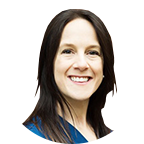
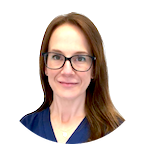
Gallery (#3)
* Add links container margin
* Update testimonials section
* Add gallery images
* Update profile photos
* Add gallery placeholder, gallery css, update bios
* Add gallery

diff --git a/index.html b/index.html
@@ -13,8 +13,7 @@
   <link rel="stylesheet" type="text/css" href="https://fonts.googleapis.com/css?family=Open+Sans|Raleway|Candal">
   <link href='https://fonts.googleapis.com/css?family=Allerta' rel='stylesheet'>
   <link rel="stylesheet" type="text/css" href="css/font-awesome.min.css">
-  <link rel="stylesheet" href="https://use.fontawesome.com/releases/v5.4.1/css/all.css" integrity="sha384-5sAR7xN1Nv6T6+dT2mhtzEpVJvfS3NScPQTrOxhwjIuvcA67KV2R5Jz6kr4abQsz"
-    crossorigin="anonymous">
+  <link rel="stylesheet" href="https://use.fontawesome.com/releases/v5.4.1/css/all.css" integrity="sha384-5sAR7xN1Nv6T6+dT2mhtzEpVJvfS3NScPQTrOxhwjIuvcA67KV2R5Jz6kr4abQsz" crossorigin="anonymous">
   <link rel="stylesheet" type="text/css" href="css/bootstrap.min.css">
   <link rel="stylesheet" type="text/css" href="css/style.css">
   <!-- =======================================================
@@ -46,8 +45,9 @@
                 <li class=""><a href="#about">About</a></li>
                 <li class=""><a href="#hours">Hours</a></li>
                 <li class=""><a href="#team">Team</a></li>
-                <li class=""><a href="#treatments">Treatments & Pricing</a></li>
-                <li class=""><a href="#testimonial">Testimonials</a></li>
+                <li class=""><a href="#treatments">Treatments & Prices</a></li>
+                <li class=""><a href="#gallery">Gallery</a></li>
+                <li class=""><a href="#reviews">Reviews</a></li>
                 <li class=""><a href="#contact">Contact</a></li>
               </ul>
             </div>
@@ -358,7 +358,9 @@
                       </div>
                       <div class="modal-body about-stephanie-modal">
                         <img src="img/blank.png" alt="Ms Stephanie Blain" class="modal-img">
-                        <p>NEEDS UPDATING</p>
+                        <p>Stephanie graduated from Newcastle University in 2011. After training she decided to move back to Yorkshire and joined the practice in 2015.</p>
+                        <p>In 2016 she decided to gain extra qualifications in Facial Aesthetics and since has expanded her knowledge and skills by attending courses on Harley Street. In her spare time shes plays netball twice a week and has a lovely Bedlington Terrier called Lenny that needs walking a lot!</p>
+                        <p>Stephanie works <u>Mondays</u>, <u>Tuesdays</u>, <u>Thursdays</u> and <u>Fridays</u>, but soon will be going on maternity leave. She will be coming back in 2020.</p>
                       </div>
                       <div class="modal-footer treatment-modal">
                         <button type="button" class="btn btn-secondary" data-dismiss="modal">Close</button>
@@ -452,7 +454,9 @@
                       </div>
                       <div class="modal-body about-harmandeep-modal">
                         <img src="img/harmandeep.png" alt="Ms Harmandeep Tatla" class="modal-img">
-                        <p>NEEDS UPDATING</p>
+                        <p>Harmandeep graduated from Cardiff University in the summer of 2018, and is the most recent member of SLDC where he is carrying out his dental foundation training year.</p>
+                        <p>He is specifically interested in treating anxious patients and changing their perceptions of dental treatment being painful. Further to this, Harmandeep enjoys treating children, carrying out aesthetic treatments such as white fillings and restoring smiles with crowns, bridges and dentures.</p>
+                        <p>Outside of work, Harmandeep enjoys travelling and socialising with friends and family.</p>
                       </div>
                       <div class="modal-footer treatment-modal">
                         <button type="button" class="btn btn-secondary" data-dismiss="modal">Close</button>
@@ -729,7 +733,9 @@
                       </div>
                       <div class="modal-body about-sammy-modal">
                         <img src="img/sammy.png" alt="Ms Sammy Lowe" class="modal-img">
-                        <p>NEEDS UPDATING</p>
+                        <p>Samantha joined the practice in 2011 as a trainee nurse and qualified in 2013.</p>
+                        <p>She has gained extra training, enabling her to nurse for treatment under sedation as well as training other trainee dental nurses and working alongside the foundation dentists.</p>
+                        <p>In her spare time, she enjoys travelling, cooking and socialising with friends and family. </p>
                       </div>
                       <div class="modal-footer treatment-modal">
                         <button type="button" class="btn btn-secondary" data-dismiss="modal">Close</button>
@@ -869,7 +875,7 @@
       </div>
     </div>
     <div class="col-md-12 back-top-top-container">
-      <div class="back-to-top text-center" id="back-to-top">
+      <div class="back-to-top text-center">
         <a href="" title="Back To Top"><i class="fa fa-angle-up"></i></a>
       </div>
     </div>
@@ -1076,8 +1082,81 @@
     </div>
   </section>
   <!--/ treatments & pricing-->
-  <!--testimonial-->
-  <section id="testimonial" class="section-padding">
+  <!-- gallery -->
+  <section id="gallery" class="section-padding">
+    <div class="container">
+      <div class="row">
+        <div class="col-md-12">
+          <h2 class="ser-title">Gallery</h2>
+          <hr class="botm-line">
+        </div>
+        <div class="col-md-12">
+          <!-- Container for the image gallery -->
+          <div class="gallery-container">
+            <!-- Full-width images with number text -->
+            <div class="mySlides">
+              <div class="numbertext">1 / 6</div>
+              <img src="img/gallery/front.jpg">
+            </div>
+            <div class="mySlides">
+              <div class="numbertext">2 / 6</div>
+              <img src="img/gallery/surgery2.jpg">
+            </div>
+            <div class="mySlides">
+              <div class="numbertext">3 / 6</div>
+              <img src="img/gallery/surgery3.jpg">
+            </div>
+            <div class="mySlides">
+              <div class="numbertext">4 / 6</div>
+              <img src="img/gallery/waiting-room-1.jpg">
+            </div>
+            <div class="mySlides">
+              <div class="numbertext">5 / 6</div>
+              <img src="img/gallery/waiting-room-2.jpg">
+            </div>
+            <div class="mySlides">
+              <div class="numbertext">6 / 6</div>
+              <img src="img/gallery/sterlisation-room.jpg">
+            </div>
+          
+            <!-- Next and previous buttons -->
+            <a class="prev" onclick="plusSlides(-1)">&#10094;</a>
+            <a class="next" onclick="plusSlides(1)">&#10095;</a>
+          
+            <!-- Image text -->
+            <div class="caption-container">
+              <p id="caption"></p>
+            </div>
+          
+            <!-- Thumbnail images -->
+            <div class="gallery-row">
+              <div class="gallery-column">
+                <img class="demo cursor" src="img/gallery/front.jpg" onclick="currentSlide(1)" alt="Our Practice">
+              </div>
+              <div class="gallery-column">
+                <img class="demo cursor" src="img/gallery/surgery2.jpg" onclick="currentSlide(2)" alt="Surgery 2">
+              </div>
+              <div class="gallery-column">
+                <img class="demo cursor" src="img/gallery/surgery3.jpg" onclick="currentSlide(3)" alt="Surgery 3">
+              </div>
+              <div class="gallery-column">
+                <img class="demo cursor" src="img/gallery/waiting-room-1.jpg" onclick="currentSlide(4)" alt="Our Waiting Room">
+              </div>
+              <div class="gallery-column">
+                <img class="demo cursor" src="img/gallery/waiting-room-2.jpg" onclick="currentSlide(5)" alt="Our Waiting Room">
+              </div>
+              <div class="gallery-column">
+                <img class="demo cursor" src="img/gallery/sterlisation-room.jpg" onclick="currentSlide(6)" alt="Our Sterilisation Room">
+              </div>
+            </div>
+          </div>
+        </div>
+      </div>
+    </div>
+  </section>
+  <!--/ gallery -->
+  <!--reviews-->
+  <section id="reviews" class="section-padding">
     <div class="container">
       <div class="row">
         <div class="col-md-12">
@@ -1123,13 +1202,8 @@
         </div>
       </div>
     </div>
-    <div class="col-md-12 back-top-top-container">
-      <div class="back-to-top text-center" id="back-to-top">
-        <a href="#" title="Back To Top"><i class="fa fa-angle-up"></i></a>
-      </div>
-    </div>
   </section>
-  <!--/ testimonial-->
+  <!--/ reviews-->
   <!--contact-->
   <section id="contact" class="section-padding">
     <div class="container">
@@ -1152,7 +1226,7 @@
     </div>
     <div class="col-md-12 back-top-top-container">
       <div class="back-to-top text-center" id="back-to-top">
-        <a href="#" title="Back To Top"><i class="fa fa-angle-up"></i></a>
+        <a href="" title="Back To Top"><i class="fa fa-angle-up"></i></a>
       </div>
     </div>
   </section>
@@ -1161,7 +1235,7 @@
   <footer id="footer">
     <div class="top-footer">
       <div class="container">
-        <div class="row">
+        <div class="row links-container">
           <div class="col-md-6">
             <h2 class="white links-title">Useful Links</h2>
             <ul class="quick-info links">

diff --git a/css/style.css b/css/style.css
@@ -269,6 +269,15 @@ banner
     margin-top: 50px;
     padding-top: 50px;
 }
+.back-to-top:hover:after {
+    content: "Back To Top";
+    width: 100%;
+    position: absolute;
+    margin-left: -35px;
+    margin-top: -30px;
+    text-align: left;
+}
+
 .text-primary i{
     padding-top: 8px;
     display: inline-block;
@@ -449,16 +458,6 @@ doctor team
     border-radius: 100%;
     box-shadow: 0 4px 8px 0 rgba(150, 150, 150, 0.2), 0 6px 20px 0 rgba(158, 158, 158, 0.19);
 }
-
-.modal-open {
-    width: 100%;
-}
-.modal-close {
-    position: fixed;
-    right: 10px;
-    top: 10px;
-    color: #2C3E50;
-}
 /***************************************
 treatments
 ***************************************/
@@ -488,6 +487,11 @@ tr:hover {
     background-color: #0CB8B6;
     border-color: #fff;
 }
+/* @media only screen and (max-width: 500px) {
+    .modal-button {
+        max-width: 162px;
+    }
+} */
 .modal-button:hover {
     background-color: #325C6A;
     border-color: #325C6A;
@@ -495,11 +499,12 @@ tr:hover {
 /***************************************
 testimonial
 ***************************************/
-#testimonial{
+#reviews{
+    margin-top: 20px;
     background-color: #eee;
 }
 .testi-details {
-    background: #fff;
+    background: rgb(255, 255, 255);
     padding: 14px 24px;
     margin-bottom: 20px;
     box-shadow: 3px 3px 2px 0px rgba(0,0,0,0.18);
@@ -588,6 +593,9 @@ footer
 .links {
     font-size: 20px;
     line-height: 1.2;
+}
+.links-container {
+    margin-top: 50px;
 }
 .social-icon li {
     float: left;
@@ -685,4 +693,101 @@ footer
 .small-credits {
     font-size: 10px;
     line-height: 1;
+}
+
+/* ######################### */
+/* ######## Gallery ######## */
+/* ######################### */
+* {
+  box-sizing: border-box;
+}
+
+/* Position the image container (needed to position the left and right arrows) */
+.gallery-container {
+  position: relative;
+  width: 100%;
+}
+
+/* Hide the images by default */
+.mySlides {
+  display: none;
+}
+
+.mySlides img {
+    width: 100%;
+}
+
+/* Add a pointer when hovering over the thumbnail images */
+.cursor {
+  cursor: pointer;
+}
+
+/* Next & previous buttons */
+.prev,
+.next {
+  cursor: pointer;
+  position: absolute;
+  top: 40%;
+  width: auto;
+  padding: 16px;
+  margin-top: -50px;
+  color: white;
+  font-weight: bold;
+  font-size: 20px;
+  border-radius: 0 3px 3px 0;
+  user-select: none;
+  -webkit-user-select: none;
+}
+
+/* Position the "next button" to the right */
+.next {
+  right: 0;
+  border-radius: 3px 0 0 3px;
+}
+
+/* On hover, add a black background color with a little bit see-through */
+.prev:hover,
+.next:hover {
+  background-color: rgba(0, 0, 0, 0.8);
+}
+
+/* Number text (1/3 etc) */
+.numbertext {
+  color: #f2f2f2;
+  font-size: 12px;
+  padding: 8px 12px;
+  position: absolute;
+  top: 0;
+}
+
+/* Container for image text */
+.caption-container {
+  text-align: center;
+  background-color: #222;
+  padding: 2px 16px;
+  color: white;
+}
+
+.gallery-row:after {
+  content: "";
+  display: table;
+  clear: both;
+}
+
+/* Six columns side by side */
+.gallery-column {
+  float: left;
+  width: 16.66%;
+}
+
+/* Add a transparency effect for thumnbail images */
+.demo {
+  opacity: 0.6;
+  height: 100px;
+  width: 100%;
+}
+
+.active,
+.demo:hover {
+  opacity: 1;
 }

diff --git a/js/custom.js b/js/custom.js
@@ -1,3 +1,35 @@
+var slideIndex = 1;
+showSlides(slideIndex);
+
+// Next/previous controls
+function plusSlides(n) {
+  showSlides(slideIndex += n);
+}
+
+// Thumbnail image controls
+function currentSlide(n) {
+  showSlides(slideIndex = n);
+}
+
+function showSlides(n) {
+  var i;
+  var slides = document.getElementsByClassName("mySlides");
+  var dots = document.getElementsByClassName("demo");
+  var captionText = document.getElementById("caption");
+  if (n > slides.length) { slideIndex = 1 }
+  if (n < 1) { slideIndex = slides.length }
+  for (i = 0; i < slides.length; i++) {
+    slides[i].style.display = "none";
+  }
+  for (i = 0; i < dots.length; i++) {
+    dots[i].className = dots[i].className.replace(" active", "");
+  }
+  slides[slideIndex - 1].style.display = "block";
+  dots[slideIndex - 1].className += " active";
+  captionText.innerHTML = dots[slideIndex - 1].alt;
+}
+
+
 (function($) {
 
   // Add smooth scrolling to all links in navbar
@@ -31,5 +63,9 @@
   $('#myModal').on('shown.bs.modal', function () {
     $('#myInput').trigger('focus')
   });
+
+  $('.gallery').carousel({
+    interval: 2000
+  })
 
 })(jQuery);
